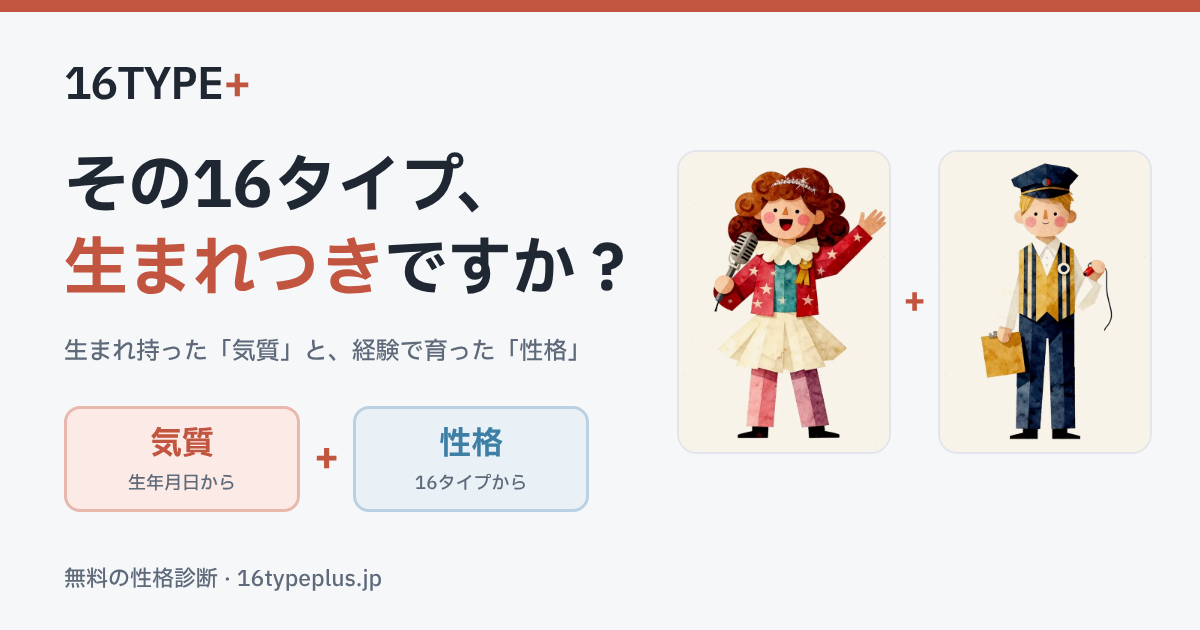
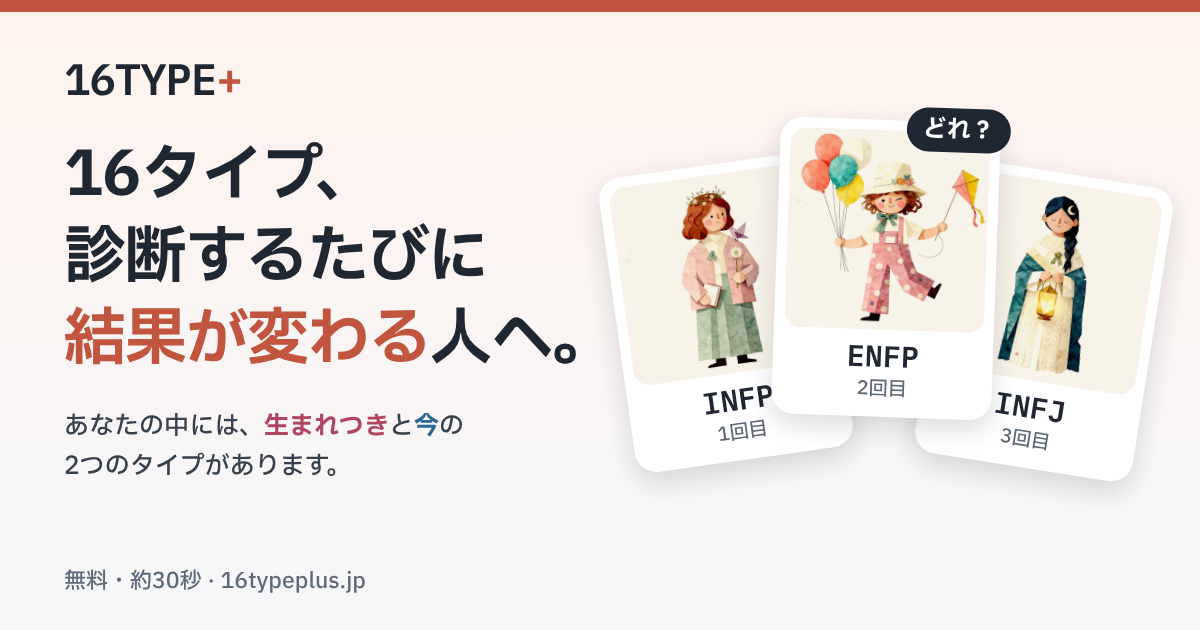
16TYPE+ 検索・リンクの画像・送る文を新しいトップにそろえる（日本語） (#491)
Claude-Session: https://claude.ai/code/session_01LcoVBhofS8nSfLLuZjwPyB

diff --git a/16typeplus/site/app.js b/16typeplus/site/app.js
@@ -452,7 +452,7 @@ async function drawShare(){
  ctx.textAlign="center";ctx.font="500 28px "+SANS;ctx.fillStyle=SC.muted;ctx.fillText(TR("あなたの気質と性格も見てみる →"),W/2,H-134);
  ctx.font="600 34px "+MONO;ctx.fillStyle=SC.ink;ctx.fillText(SHARE_URL.replace("https://",""),W/2,H-88);
  return cv;}
-function shareText(){const me=window.__me,co=coreOf(me.born,me.now);return (co?TR("わたしは「{n}」タイプでした。").replace("{n}",co.name):"")+(me.born===me.now?TR("気質も性格も ")+an(me.now)+TR("。"):TR("気質は ")+an(me.born)+TR("、性格は ")+an(me.now)+TR("。"))+TR("｜16TYPE+（16タイププラス）");}
+function shareText(){const me=window.__me,co=coreOf(me.born,me.now);if(LANG==="ja"){const nm=t=>t+(NM[t]?" "+NM[t]:"");return (co?"わたしは「"+co.name+"」タイプでした。":"")+(me.born===me.now?"生まれつきも今も "+nm(me.now)+"。":"生まれつきは "+nm(me.born)+"、今は "+nm(me.now)+"。")+"あなたの生まれつきのタイプは？｜16TYPE+（16タイププラス）";}return (co?TR("わたしは「{n}」タイプでした。").replace("{n}",co.name):"")+(me.born===me.now?TR("気質も性格も ")+an(me.now)+TR("。"):TR("気質は ")+an(me.born)+TR("、性格は ")+an(me.now)+TR("。"))+TR("｜16TYPE+（16タイププラス）");}
 function track(ev,extra){try{const m=window.__me||{};if(typeof gtag!=="function")return;gtag("event",ev,Object.assign({born_type:m.born||"",now_type:m.now||"",lang:LANG},extra||{}));}catch(e){}}
 async function shareResult(){track("share_click");const b=$("shareBtn"),lbl=b.textContent;b.disabled=true;b.textContent=TR("画像をつくっています…");
  try{const me0=window.__me||{},cvs=[await drawShare()].concat(me0.prev&&me0.prev.length?[await drawChange()]:[]).concat([await drawCloud(),await drawKarte()]);const blobs=await Promise.all(cvs.map(cv=>new Promise(r=>cv.toBlob(r,"image/png"))));
@@ -745,7 +745,7 @@ function lvShow(t){const me=window.__me,P=lvTy(t);if(!me)return;const el=$("lvRe
 async function lvShareRun(t){track("love_share_click");const b=$("lvShare"),lbl=b.textContent;b.disabled=true;b.textContent=TR("画像をつくっています…");
  try{const P=lvTy(t),cvs=[await lvCloud(P),await lvSheet(P)];const blobs=await Promise.all(cvs.map(cv=>new Promise(r=>cv.toBlob(r,"image/png"))));
   const files=blobs.map((bl,i)=>new File([bl],"16typeplus-love-"+(i+1)+".png",{type:"image/png"}));
-  if(navigator.canShare&&navigator.canShare({files})){try{await navigator.share({files,text:TR("恋のときのあなたは")+" "+P.t+p16(P.t)+TR("｜16TYPE+（16タイププラス）")+" "+SHARE_URL});}catch(e){if(e&&e.name!=="AbortError")showShareBox(cvs);}}
+  if(navigator.canShare&&navigator.canShare({files})){try{await navigator.share({files,text:(LANG==="ja"?"恋のときのわたしは "+P.t+p16(P.t)+"。あなたは？｜16TYPE+（16タイププラス）":TR("恋のときのあなたは")+" "+P.t+p16(P.t)+TR("｜16TYPE+（16タイププラス）"))+" "+SHARE_URL});}catch(e){if(e&&e.name!=="AbortError")showShareBox(cvs);}}
   else showShareBox(cvs);}catch(e){alert(TR("画像をつくれませんでした。もう一度お試しください。"));}finally{b.disabled=false;b.textContent=lbl;}}
 const LVC={ink:SC.ink,muted:SC.muted,soft:"#EEF1F5",rule:"#E2E6EC",rose:"#C9607A",roseT:"#F8E4EA",rose2:"#DE8FA3"};
 function lvFonts(){const SANS=(LANG==="ko"?'"Noto Sans KR",':'')+'"IBM Plex Sans JP","Hiragino Sans","Noto Sans JP",sans-serif',MONO='"IBM Plex Mono",ui-monospace,Menlo,monospace';
@@ -781,7 +781,7 @@ async function lvCloud(P){const {SANS,MONO}=await lvFonts(),W=1080,H=1350,cv=doc
 async function lvSheet(P){const {SANS,MONO}=await lvFonts(),LP=(window.__lvPtImg&&st.love&&st.love.sit!=="none"&&st.love.pt&&LV.partner&&LV.partner[st.love.pt])?st.love:null,W=1080,H=LP?2600:1700,cv=document.createElement("canvas");cv.width=W;cv.height=H;const c=cv.getContext("2d");
  const wrap=(t,w)=>wrapLines(c,t,w,9);
  c.fillStyle="#FFFFFF";c.fillRect(0,0,W,H);c.fillStyle=LVC.rose;c.fillRect(0,0,W,14);
- c.font="600 26px "+MONO;c.fillStyle=LVC.muted;c.fillText("16TYPE+  "+TR("恋愛編"),70,95);c.font="600 34px "+SANS;c.fillStyle=LVC.rose;c.fillText(TR("恋のときのあなたは"),70,185);
+ c.font="600 26px "+MONO;c.fillStyle=LVC.muted;c.fillText("16TYPE+  "+TR("恋愛編"),70,95);c.font="600 34px "+SANS;c.fillStyle=LVC.rose;c.fillText(LANG==="ja"?"恋のときのわたしは":TR("恋のときのあなたは"),70,185);
  c.font="700 60px "+SANS;fillNm(c,P.t,P.t,70,275,"left",LVC.ink,"#B7A9AE",W-140);
  let y=390;c.font="700 34px "+SANS;const L1=wrap(lvQ(P.one),W-180).slice(0,2),bh=L1.length>1?176:130;c.fillStyle=LVC.roseT;rrect(c,60,y,W-120,bh,20);c.fill();c.font="500 24px "+SANS;c.fillStyle=LVC.rose;c.fillText(TR("ひと言で言うと…"),90,y+42);
  c.font="700 34px "+SANS;c.fillStyle=LVC.ink;L1.forEach((l,i)=>c.fillText(l,90,y+92+i*44));
@@ -1182,7 +1182,7 @@ async function drawGroup(G,title){const W=1080,H=2200,cv=document.createElement(
  o.textAlign="center";o.font="600 30px "+MONO;o.fillStyle=SC.plus;o.fillText(SHARE_URL.replace("https://",""),W/2,H2-86);o.textAlign="left";return out;}
 async function shareGroup(G,title){track("group_share");const b=$("gShare"),lbl=b.textContent;b.disabled=true;b.textContent=TR("画像をつくっています…");
  try{const cv=await drawGroup(G,title);const bl=await new Promise(r=>cv.toBlob(r,"image/png"));const files=[new File([bl],"16typeplus-group.png",{type:"image/png"})];
-  if(navigator.canShare&&navigator.canShare({files})){try{await navigator.share({files,text:TR("グループの相性")+TR("｜16TYPE+（16タイププラス）")+" "+SHARE_URL});}catch(e){if(e&&e.name!=="AbortError")showShareBox([cv]);}}else showShareBox([cv]);}
+  if(navigator.canShare&&navigator.canShare({files})){try{await navigator.share({files,text:(LANG==="ja"?"わたしたちのグループの相性を見てみました｜16TYPE+（16タイププラス）":TR("グループの相性")+TR("｜16TYPE+（16タイププラス）"))+" "+SHARE_URL});}catch(e){if(e&&e.name!=="AbortError")showShareBox([cv]);}}else showShareBox([cv]);}
  catch(e){alert(TR("画像をつくれませんでした。もう一度お試しください。"));}finally{b.disabled=false;b.textContent=lbl;}}
 
 /* ---- グループの相性（その場で入力。サーバーは使わない） ---- */

diff --git a/16typeplus/src/script.js b/16typeplus/src/script.js
@@ -437,7 +437,7 @@ async function drawShare(){
  ctx.textAlign="center";ctx.font="500 28px "+SANS;ctx.fillStyle=SC.muted;ctx.fillText(TR("あなたの気質と性格も見てみる →"),W/2,H-134);
  ctx.font="600 34px "+MONO;ctx.fillStyle=SC.ink;ctx.fillText(SHARE_URL.replace("https://",""),W/2,H-88);
  return cv;}
-function shareText(){const me=window.__me,co=coreOf(me.born,me.now);return (co?TR("わたしは「{n}」タイプでした。").replace("{n}",co.name):"")+(me.born===me.now?TR("気質も性格も ")+an(me.now)+TR("。"):TR("気質は ")+an(me.born)+TR("、性格は ")+an(me.now)+TR("。"))+TR("｜16TYPE+（16タイププラス）");}
+function shareText(){const me=window.__me,co=coreOf(me.born,me.now);if(LANG==="ja"){const nm=t=>t+(NM[t]?" "+NM[t]:"");return (co?"わたしは「"+co.name+"」タイプでした。":"")+(me.born===me.now?"生まれつきも今も "+nm(me.now)+"。":"生まれつきは "+nm(me.born)+"、今は "+nm(me.now)+"。")+"あなたの生まれつきのタイプは？｜16TYPE+（16タイププラス）";}return (co?TR("わたしは「{n}」タイプでした。").replace("{n}",co.name):"")+(me.born===me.now?TR("気質も性格も ")+an(me.now)+TR("。"):TR("気質は ")+an(me.born)+TR("、性格は ")+an(me.now)+TR("。"))+TR("｜16TYPE+（16タイププラス）");}
 function track(ev,extra){try{const m=window.__me||{};if(typeof gtag!=="function")return;gtag("event",ev,Object.assign({born_type:m.born||"",now_type:m.now||"",lang:LANG},extra||{}));}catch(e){}}
 async function shareResult(){track("share_click");const b=$("shareBtn"),lbl=b.textContent;b.disabled=true;b.textContent=TR("画像をつくっています…");
  try{const me0=window.__me||{},cvs=[await drawShare()].concat(me0.prev&&me0.prev.length?[await drawChange()]:[]).concat([await drawCloud(),await drawKarte()]);const blobs=await Promise.all(cvs.map(cv=>new Promise(r=>cv.toBlob(r,"image/png"))));
@@ -730,7 +730,7 @@ function lvShow(t){const me=window.__me,P=lvTy(t);if(!me)return;const el=$("lvRe
 async function lvShareRun(t){track("love_share_click");const b=$("lvShare"),lbl=b.textContent;b.disabled=true;b.textContent=TR("画像をつくっています…");
  try{const P=lvTy(t),cvs=[await lvCloud(P),await lvSheet(P)];const blobs=await Promise.all(cvs.map(cv=>new Promise(r=>cv.toBlob(r,"image/png"))));
   const files=blobs.map((bl,i)=>new File([bl],"16typeplus-love-"+(i+1)+".png",{type:"image/png"}));
-  if(navigator.canShare&&navigator.canShare({files})){try{await navigator.share({files,text:TR("恋のときのあなたは")+" "+P.t+p16(P.t)+TR("｜16TYPE+（16タイププラス）")+" "+SHARE_URL});}catch(e){if(e&&e.name!=="AbortError")showShareBox(cvs);}}
+  if(navigator.canShare&&navigator.canShare({files})){try{await navigator.share({files,text:(LANG==="ja"?"恋のときのわたしは "+P.t+p16(P.t)+"。あなたは？｜16TYPE+（16タイププラス）":TR("恋のときのあなたは")+" "+P.t+p16(P.t)+TR("｜16TYPE+（16タイププラス）"))+" "+SHARE_URL});}catch(e){if(e&&e.name!=="AbortError")showShareBox(cvs);}}
   else showShareBox(cvs);}catch(e){alert(TR("画像をつくれませんでした。もう一度お試しください。"));}finally{b.disabled=false;b.textContent=lbl;}}
 const LVC={ink:SC.ink,muted:SC.muted,soft:"#EEF1F5",rule:"#E2E6EC",rose:"#C9607A",roseT:"#F8E4EA",rose2:"#DE8FA3"};
 function lvFonts(){const SANS=(LANG==="ko"?'"Noto Sans KR",':'')+'"IBM Plex Sans JP","Hiragino Sans","Noto Sans JP",sans-serif',MONO='"IBM Plex Mono",ui-monospace,Menlo,monospace';
@@ -766,7 +766,7 @@ async function lvCloud(P){const {SANS,MONO}=await lvFonts(),W=1080,H=1350,cv=doc
 async function lvSheet(P){const {SANS,MONO}=await lvFonts(),LP=(window.__lvPtImg&&st.love&&st.love.sit!=="none"&&st.love.pt&&LV.partner&&LV.partner[st.love.pt])?st.love:null,W=1080,H=LP?2600:1700,cv=document.createElement("canvas");cv.width=W;cv.height=H;const c=cv.getContext("2d");
  const wrap=(t,w)=>wrapLines(c,t,w,9);
  c.fillStyle="#FFFFFF";c.fillRect(0,0,W,H);c.fillStyle=LVC.rose;c.fillRect(0,0,W,14);
- c.font="600 26px "+MONO;c.fillStyle=LVC.muted;c.fillText("16TYPE+  "+TR("恋愛編"),70,95);c.font="600 34px "+SANS;c.fillStyle=LVC.rose;c.fillText(TR("恋のときのあなたは"),70,185);
+ c.font="600 26px "+MONO;c.fillStyle=LVC.muted;c.fillText("16TYPE+  "+TR("恋愛編"),70,95);c.font="600 34px "+SANS;c.fillStyle=LVC.rose;c.fillText(LANG==="ja"?"恋のときのわたしは":TR("恋のときのあなたは"),70,185);
  c.font="700 60px "+SANS;fillNm(c,P.t,P.t,70,275,"left",LVC.ink,"#B7A9AE",W-140);
  let y=390;c.font="700 34px "+SANS;const L1=wrap(lvQ(P.one),W-180).slice(0,2),bh=L1.length>1?176:130;c.fillStyle=LVC.roseT;rrect(c,60,y,W-120,bh,20);c.fill();c.font="500 24px "+SANS;c.fillStyle=LVC.rose;c.fillText(TR("ひと言で言うと…"),90,y+42);
  c.font="700 34px "+SANS;c.fillStyle=LVC.ink;L1.forEach((l,i)=>c.fillText(l,90,y+92+i*44));
@@ -1167,7 +1167,7 @@ async function drawGroup(G,title){const W=1080,H=2200,cv=document.createElement(
  o.textAlign="center";o.font="600 30px "+MONO;o.fillStyle=SC.plus;o.fillText(SHARE_URL.replace("https://",""),W/2,H2-86);o.textAlign="left";return out;}
 async function shareGroup(G,title){track("group_share");const b=$("gShare"),lbl=b.textContent;b.disabled=true;b.textContent=TR("画像をつくっています…");
  try{const cv=await drawGroup(G,title);const bl=await new Promise(r=>cv.toBlob(r,"image/png"));const files=[new File([bl],"16typeplus-group.png",{type:"image/png"})];
-  if(navigator.canShare&&navigator.canShare({files})){try{await navigator.share({files,text:TR("グループの相性")+TR("｜16TYPE+（16タイププラス）")+" "+SHARE_URL});}catch(e){if(e&&e.name!=="AbortError")showShareBox([cv]);}}else showShareBox([cv]);}
+  if(navigator.canShare&&navigator.canShare({files})){try{await navigator.share({files,text:(LANG==="ja"?"わたしたちのグループの相性を見てみました｜16TYPE+（16タイププラス）":TR("グループの相性")+TR("｜16TYPE+（16タイププラス）"))+" "+SHARE_URL});}catch(e){if(e&&e.name!=="AbortError")showShareBox([cv]);}}else showShareBox([cv]);}
  catch(e){alert(TR("画像をつくれませんでした。もう一度お試しください。"));}finally{b.disabled=false;b.textContent=lbl;}}
 
 /* ---- グループの相性（その場で入力。サーバーは使わない） ---- */

diff --git a/16typeplus/site_assets/ogp-source.html b/16typeplus/site_assets/ogp-source.html
@@ -17,12 +17,23 @@ h1{width:610px;margin:0;line-height:1.3;font-weight:700}h1 em{font-style:normal;
 .ch{width:210px;height:300px;border-radius:20px;background:#F8F3EA;border:2px solid #E2E6EC;overflow:hidden;display:flex;align-items:flex-end;justify-content:center}
 .ch img{width:210px;height:300px;object-fit:cover;object-position:center top}
 .pl2{font-size:36px;color:#C2553F;font-weight:700}
-</style></head><body><div class="og" id="ja" lang="ja"><div class="top"></div>
-<div class="logo">16TYPE<span>+</span></div>
-<h1 style="font-size:64px">その16タイプ、<br><em>生まれつき</em>ですか？</h1><p class="sub">生まれ持った「気質」と、経験で育った「性格」</p>
-<div class="chips"><div class="c a"><b>気質</b><small>生年月日から</small></div><span class="pl">+</span><div class="c b"><b>性格</b><small>16タイプから</small></div></div>
-<p class="ft">無料の性格診断 · 16typeplus.jp</p>
-<div class="chars"><div class="ch"><img src="../characters/web/ESFP.webp"></div><span class="pl2">+</span><div class="ch"><img src="../characters/web/ESTJ.webp"></div></div></div><div class="og" id="en" lang="en"><div class="top"></div>
+/* 日本語：「診断するたびに結果が変わる人へ」（2026-11-27） */
+#ja .ans{margin:26px 0 0;width:560px;font-size:25px;line-height:1.6;font-weight:500;color:#38414E}
+#ja .ans b{color:#B0465F}#ja .ans strong{color:#2C6A93}
+#ja .deck{position:absolute;right:64px;top:120px;width:520px;height:420px}
+#ja .cd{position:absolute;width:200px;background:#fff;border-radius:22px;padding:10px 10px 14px;box-shadow:0 10px 26px rgba(31,39,51,.16);text-align:center}
+#ja .cd img{width:100%;aspect-ratio:1;object-fit:cover;border-radius:16px;display:block;background:#F8F3EA}
+#ja .cd b{font:600 30px "IBM Plex Mono",monospace;display:block;margin-top:6px}
+#ja .cd small{font-size:19px;color:#5E6A7A;display:block}
+#ja .c1{left:0;top:44px;transform:rotate(-8deg)}#ja .c2{left:160px;top:0;transform:rotate(2deg);z-index:2}#ja .c3{left:318px;top:52px;transform:rotate(9deg)}
+#ja .dq{position:absolute;right:-10px;top:-14px;background:#1F2733;color:#fff;font-weight:700;font-size:24px;border-radius:999px;padding:4px 16px}
+#ja h1{width:auto}
+</style></head><body><div class="og" id="ja" lang="ja" style="background:linear-gradient(180deg,#FFF3EE 0%,#F6F7F9 100%);padding-top:50px"><div class="top"></div>
+<div class="logo" style="margin-bottom:28px;font-size:44px">16TYPE<span>+</span></div>
+<h1 style="font-size:62px;line-height:1.32;letter-spacing:-1px">16タイプ、<br>診断するたびに<br><em>結果が変わる</em>人へ。</h1>
+<p class="ans">あなたの中には、<b>生まれつき</b>と<strong>今</strong>の<br>2つのタイプがあります。</p>
+<div class="deck"><div class="cd c1"><img src="../characters/web/INFP.webp"><b>INFP</b><small>1回目</small></div><div class="cd c2"><img src="../characters/web/ENFP.webp"><b>ENFP</b><small>2回目</small><span class="dq">どれ？</span></div><div class="cd c3"><img src="../characters/web/INFJ.webp"><b>INFJ</b><small>3回目</small></div></div>
+<p class="ft" style="bottom:32px">無料・約30秒 · 16typeplus.jp</p></div><div class="og" id="en" lang="en"><div class="top"></div>
 <div class="logo">16TYPE<span>+</span></div>
 <h1 style="font-size:42px;width:660px">Is your 16 type<br>the one you were <em>born with</em>?</h1><p class="sub">Your temperament from birth and your character from experience</p>
 <div class="chips"><div class="c a"><b>Temperament</b><small>from your birth date</small></div><span class="pl">+</span><div class="c b"><b>Character</b><small>from the 16 types</small></div></div>

diff --git a/16typeplus/site/index.html b/16typeplus/site/index.html
@@ -3,8 +3,8 @@
 <head>
 <meta charset="utf-8">
 <meta name="viewport" content="width=device-width,initial-scale=1,viewport-fit=cover">
-<title>16TYPE+｜生まれ持った気質と、育ってきた性格がわかる無料診断</title>
-<meta name="description" content="生年月日からわかる「気質」と、16タイプからわかる「性格」。2つを並べて、あなたらしいところと悩みやすいところがわかる無料の性格診断。">
+<title>16タイプ、診断するたびに結果が変わる人へ｜16TYPE+（無料診断）</title>
+<meta name="description" content="16タイプの結果が、診断するたびに変わる。それは、あなたの中に「生まれつきのタイプ」と「今のタイプ」の2つがあるから。生年月日と16タイプから2つを並べて、変わったところ・変わらないところがわかる無料診断。入力は約30秒・登録なし。">
 <link rel="canonical" href="https://16typeplus.jp/">
 <link rel="alternate" hreflang="ja" href="https://16typeplus.jp/">
 <link rel="alternate" hreflang="en" href="https://16typeplus.jp/en/">
@@ -18,11 +18,11 @@
 <meta name="application-name" content="16TYPE+">
 <meta property="og:type" content="website">
 <meta property="og:site_name" content="16TYPE+">
-<meta property="og:title" content="16TYPE+｜生まれ持った気質と、育ってきた性格がわかる無料診断">
-<meta property="og:description" content="生年月日からわかる「気質」と、16タイプからわかる「性格」。2つを並べて、あなたらしいところと悩みやすいところがわかる無料の性格診断。">
+<meta property="og:title" content="16タイプ、診断するたびに結果が変わる人へ｜16TYPE+（無料診断）">
+<meta property="og:description" content="16タイプの結果が、診断するたびに変わる。それは、あなたの中に「生まれつきのタイプ」と「今のタイプ」の2つがあるから。生年月日と16タイプから2つを並べて、変わったところ・変わらないところがわかる無料診断。入力は約30秒・登録なし。">
 <meta property="og:url" content="https://16typeplus.jp/">
 <meta property="og:locale" content="ja_JP">
-<meta property="og:image" content="https://16typeplus.jp/img/ogp-ja.png">
+<meta property="og:image" content="https://16typeplus.jp/img/ogp-ja.png?v=2">
 <meta property="og:image:width" content="1200">
 <meta property="og:image:height" content="630">
 <meta name="twitter:card" content="summary_large_image">

diff --git a/16typeplus/build_site.py b/16typeplus/build_site.py
@@ -8,7 +8,7 @@ R=os.path.dirname(os.path.abspath(__file__))+'/'
 sys.path.insert(0,R+'i18n');from build_preview import lang_data
 OUT=R+'site/'
 META={
- 'ja':('16TYPE+｜生まれ持った気質と、育ってきた性格がわかる無料診断','生年月日からわかる「気質」と、16タイプからわかる「性格」。2つを並べて、あなたらしいところと悩みやすいところがわかる無料の性格診断。','日本語','ja_JP'),
+ 'ja':('16タイプ、診断するたびに結果が変わる人へ｜16TYPE+（無料診断）','16タイプの結果が、診断するたびに変わる。それは、あなたの中に「生まれつきのタイプ」と「今のタイプ」の2つがあるから。生年月日と16タイプから2つを並べて、変わったところ・変わらないところがわかる無料診断。入力は約30秒・登録なし。','日本語','ja_JP'),
  'en':('16TYPE+ | Your temperament and character, side by side','The temperament you were born with, from your birth date, and the character shaped by experience, from the 16 types. A free personality test that puts the two side by side and shows where you tend to struggle.','English','en_US'),
  'ko':('16TYPE+ | 타고난 기질과 자라 온 성격을 알 수 있는 무료 검사','생년월일로 보는 기질과 16타입으로 보는 성격. 둘을 나란히 놓고 나다움과 고민하기 쉬운 지점을 알려 주는 무료 성격 검사.','한국어','ko_KR')}
 URL={'ja':'https://16typeplus.jp/','en':'https://16typeplus.jp/en/','ko':'https://16typeplus.jp/ko/'}
@@ -59,7 +59,7 @@ def build():
 <meta property="og:description" content="{desc}">
 <meta property="og:url" content="{u}">
 <meta property="og:locale" content="{loc}">
-<meta property="og:image" content="https://16typeplus.jp/img/ogp-{lang}.png">
+<meta property="og:image" content="https://16typeplus.jp/img/ogp-{lang}.png{'?v=2' if lang=='ja' else ''}">
 <meta property="og:image:width" content="1200">
 <meta property="og:image:height" content="630">
 <meta name="twitter:card" content="summary_large_image">
